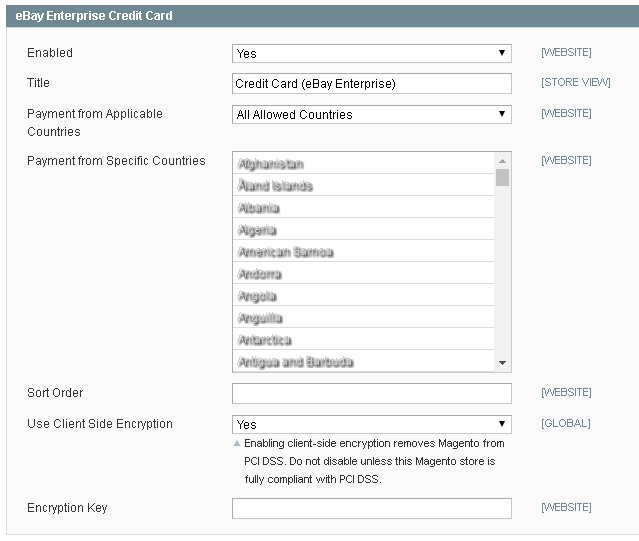
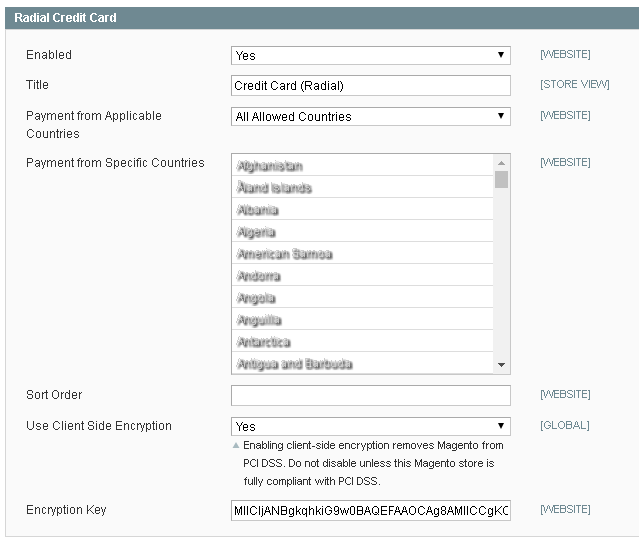
Branding updates
should be the final removal of all references to ebay enterprise

diff --git a/docs/SETUP.md b/docs/SETUP.md
@@ -72,12 +72,20 @@ Some other settings of note:
 There are two cron jobs packaged with the Radial PTF extension:
 
 ### radial\_eb2cfraud\_retry\_sendevent
-The radial\_eb2cfraud\_retry\_sendevent job resends Fraud evaluations which failed to be transmitted on initial order submission; the default cron mask is set to run once a minute as any orders which fail to be transmitted on order submit should get to Radial fraud processing as quickly as possible.    
+The radial\_eb2cfraud\_retry\_sendevent job resends Fraud evaluations which failed to be transmitted on initial order submission.    
 
 ### radial\_amqp\_runner\_process\_queues
-The radial\_amqp\_runner\_process\_queues job is responsible for checking for and retrieving fraud evaluations from Radial - these determines are processed and update order states based on the incoming data. It is recommended that this cron mask be set to run no more than every 5 minutes (the default setting) to ensure timely processing of orders (most fraud determinations are made in well under 5 minutes).
+The radial\_amqp\_runner\_process\_queues job is responsible for checking for and retrieving fraud evaluations from Radial - these determines are processed and update order states based on the incoming data.
+
+### radial\_payments\_retry\_settlements
+The radial\_payments\_retry\_settlements job retransmits any settlement communications that failed in their initial posting back to Radial.  
 
 While these cron jobs are set to a cron *schedule* as part of the default installation, it is important to ensure that cron is actually set up and running for that schedule to work.  Default cron schedules can also be overridden if needed via any of the oft-used cron management extensions available (such as AOE Scheduler - https://github.com/AOEpeople/Aoe_Scheduler).  Please remember to cache-clear after setting up data in Magento admin when making adjustments to cron schedules.
+
+Example of setting an override cron expression in AOE scheduler:
+
+<img src="assets/scheduling.png">
+
 
 ## Disabling Radial Payment Methods and Fraud Processing
 
@@ -88,6 +96,12 @@ To stop using Radial Credit Card Processing as an active Payment Method in Magen
 To stop using Radial PayPal Processing as an active Payment Method in Magento - go to Admin > System > Configuration > Payment Methods select the eBay Enterprise PayPal header and set Enabled to No.  Save and clear cache.
 
 To disable Radial Fraud Processing, go to System > Configuration > Radial - Payments, Tax, Fraud and select the Fraud tab and set "Enabled" to No.  Save and clear cache.
+
+Additionally, for fully disabling all interactions with Radial, disable the following cron jobs:
+
+- radial\_eb2cfraud\_retry\_sendevent 
+- radial\_amqp\_runner\_process\_queues 
+- radial\_payments\_retry\_settlements
 
 ## Order Event Logging
 

diff --git a/docs/SUPPORT.md b/docs/SUPPORT.md
@@ -26,7 +26,7 @@ This error may also indicate a lack of network connectivity between the Magento 
 
 ### Radial Credit Cards/PayPal not showing on Payment Information page in Checkout
 
-1. Make sure System > Configuration > Sales > Payment Methods has eBay Enterprise Credit Card Enabled set to "Yes" - see [Setup and Configuration](SETUP.md) for more information
+1. Make sure System > Configuration > Sales > Payment Methods has Radial Credit Card Enabled set to "Yes" and Radial PayPal Enabled set to "Yes" - see [Setup and Configuration](SETUP.md) for more information
 2. If your Magento installation is utilizing a caching extension (for example, the out of the box Enterprise Edition caches), make sure you flush all caches and recheck the Payment Options page in checkout
 3. Note that if you are switching from another payments provider to Radial, you may want to temporarily set the Titles for Credit Card and PayPal to something distinctive to ensure that the correct payment provider's extension is being loaded.
 
@@ -36,7 +36,7 @@ This is typically due to having multiple payment processors active under System 
 
 ### PayPal is not showing up on the cart or product page
 
-Go to System > Configuration > Sales > Payment Method > eBay Enterprise PayPal and make sure "Shortcut on Shopping Cart" and "Shortcut on Product View" are both set to "Yes".  Additionally, make sure to flush any caches before rechecking.
+Go to System > Configuration > Sales > Payment Method > Radial PayPal and make sure "Shortcut on Shopping Cart" and "Shortcut on Product View" are both set to "Yes".  Additionally, make sure to flush any caches before rechecking.
 
 ### There is nothing under System > Configuration > Radial > Payments, TDF, Fraud
 

diff --git a/docs/INSTALL.md b/docs/INSTALL.md
@@ -85,20 +85,19 @@ To completely disable the Radial PTF Extension, go to your Modules directory (un
     
 to
 
-
     <active>false</active>
 
 Files:
 
-- Radial_Transactions.xml
-- Radial_PayPal.xml
-- Radial_Payments.xml
-- Radial_CreditCard.xml
 - Radial_Core.xml
 - Radial_Amqp.xml
 - Hackathon_PSR0Autoloader.xml
 - EbayEnterprise_MageLog.xml
-- EbayEnterprise_Eb2cFraud.xml
+- Radial_Transactions.xml
+- Radial_PayPal.xml
+- Radial_Payments.xml
+- Radial_Eb2cFraud.xml
+- Radial_CreditCard.xml
 
 Be sure to clear cache after disabling and the entire Radial PTF Extension will not be loaded by Magento.
 

diff --git a/docs/SI.md b/docs/SI.md
@@ -14,7 +14,7 @@ Radial's Fraud Engine needs to understand what ship methods are being used in a 
         <radial_core>
             <!--
             Shipping Codes: Map Magento shipping methods to ROM shipping codes. Node names must match Magento shipping
-            methods. Values must match ROM shipping codes specific to your client implementation, which eBay Enterpise
+            methods. Values must match ROM shipping codes specific to your client implementation, which Radial
             will provide to you.
             -->
             <shipmap>
